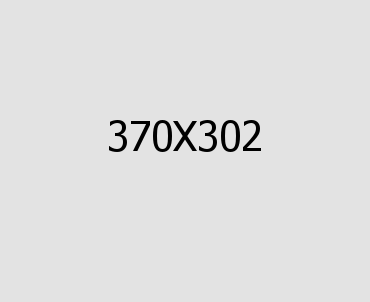
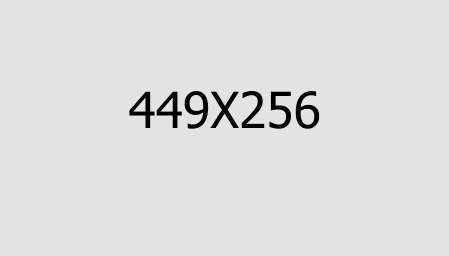
fix: latest node support with latest packages

Changed region(s): [[0.2676, 0.3438, 0.7135, 0.5312]]

diff --git a/image.js b/image.js
@@ -1,6 +1,6 @@
 const fs = require('fs');
 var read = require('fs-readdir-recursive');
-var sizeOf = require('image-size');
+const { imageSize: sizeOf } = require('image-size');
 const {
     createCanvas,
     loadImage
@@ -9,7 +9,7 @@ const srcDirectory = './source-images';
 filenames = read(srcDirectory);
 
 filenames.forEach(file => {
-    let dimentions = sizeOf(srcDirectory + '/' + file);
+    let dimentions = sizeOf(fs.readFileSync(srcDirectory + '/' + file));
     const {
         width,
         height
